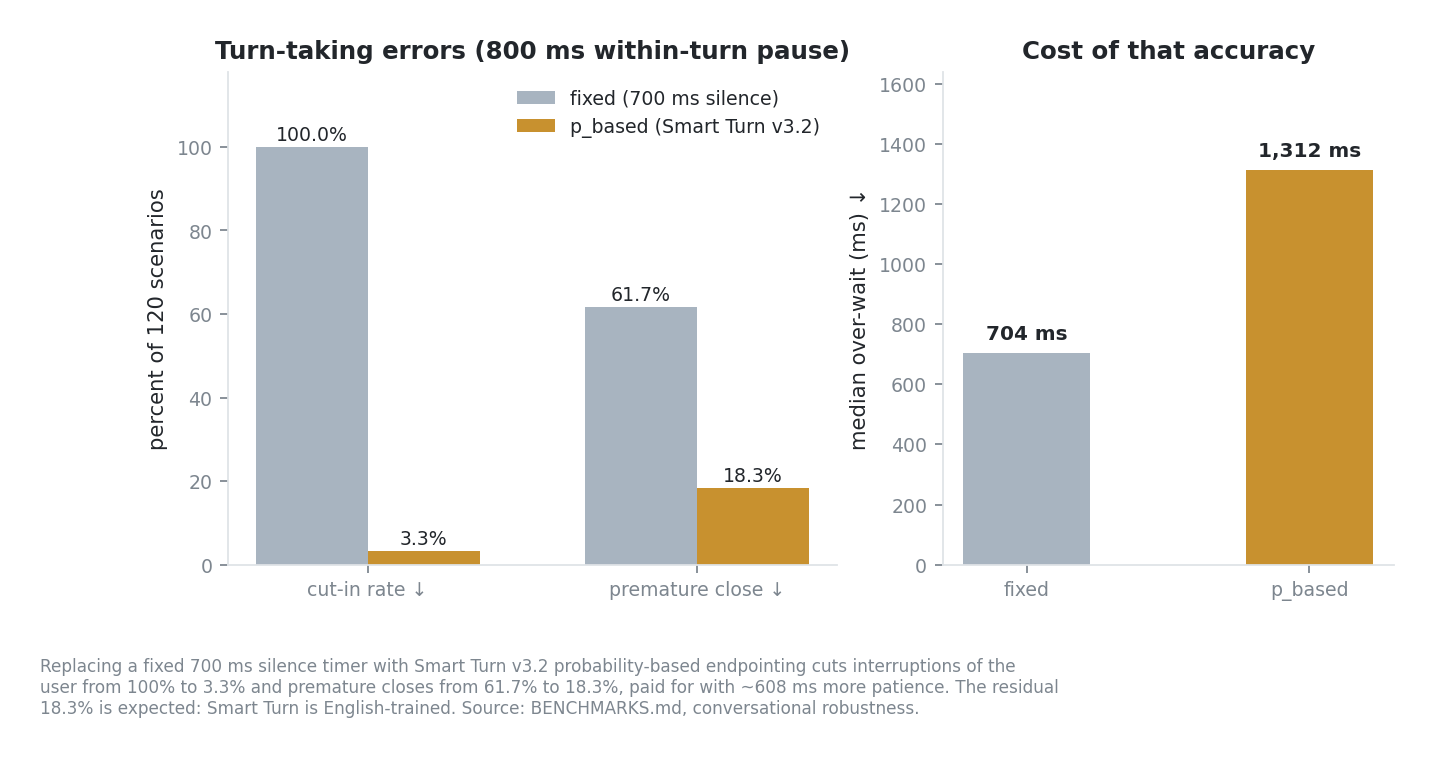
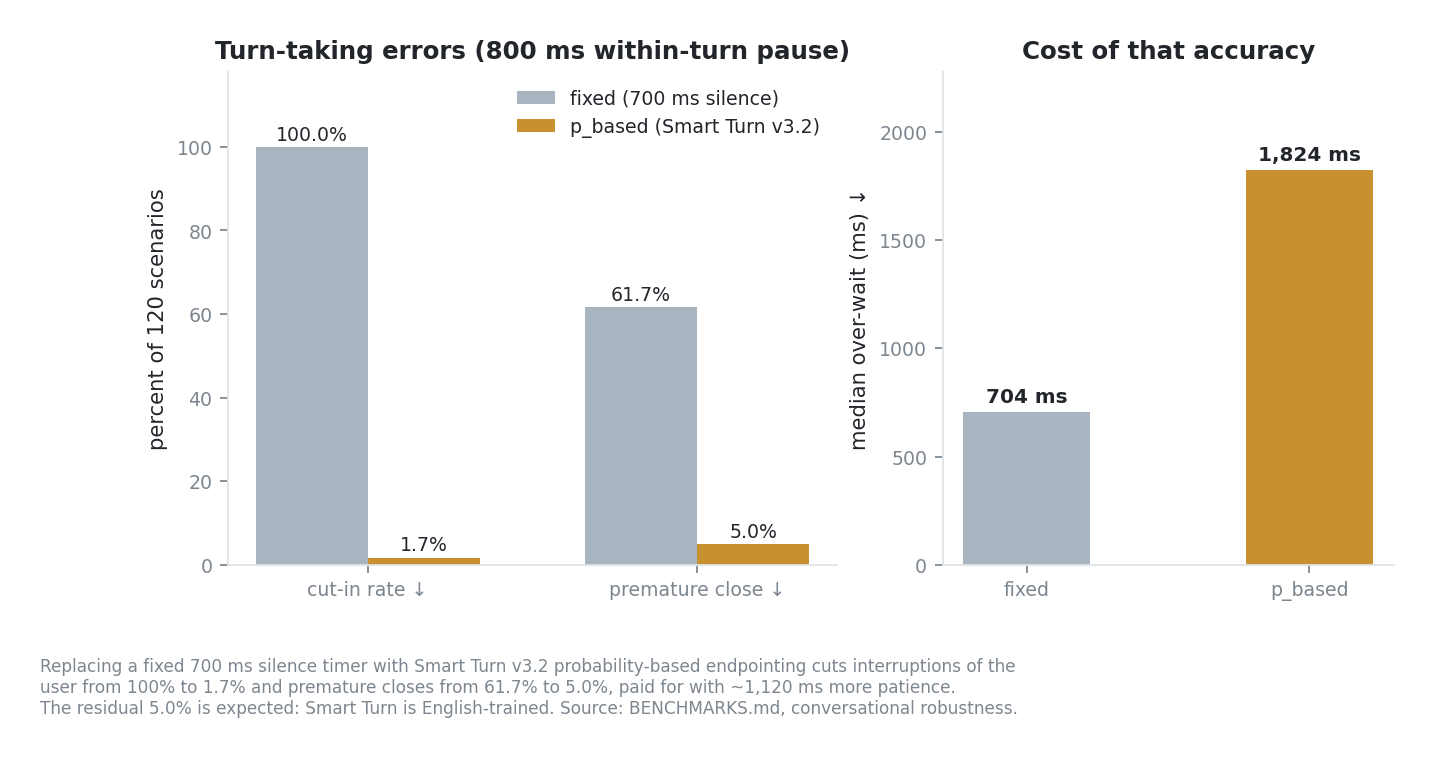
docs: correct turn-taking section after the endpoint floor retune

diff --git a/scripts/plot_benchmarks.py b/scripts/plot_benchmarks.py
@@ -332,11 +332,18 @@ def conversation_turn_taking(data: dict) -> Figure:
     right.set_title("Cost of that accuracy")
     _despine(right)
 
+    # Derived, never typed in: a hardcoded caption survived a policy retune once
+    # already and contradicted the bars drawn right above it.
+    baseline, adaptive = (policies[name] for name in names)
+    extra_wait = adaptive["median_over_wait_ms"] - baseline["median_over_wait_ms"]
     _caption(
         figure,
         "Replacing a fixed 700 ms silence timer with Smart Turn v3.2 probability-based endpointing cuts interruptions of the\n"
-        "user from 100% to 3.3% and premature closes from 61.7% to 18.3%, paid for with ~608 ms more patience. The residual\n"
-        "18.3% is expected: Smart Turn is English-trained. Source: BENCHMARKS.md, conversational robustness.",
+        f"user from {baseline['cut_in_rate']:.0%} to {adaptive['cut_in_rate']:.1%} and premature closes from "
+        f"{baseline['premature_close_rate']:.1%} to {adaptive['premature_close_rate']:.1%}, paid for with "
+        f"~{extra_wait:,.0f} ms more patience.\n"
+        f"The residual {adaptive['premature_close_rate']:.1%} is expected: Smart Turn is English-trained. "
+        "Source: BENCHMARKS.md, conversational robustness.",
     )
     return figure
 

diff --git a/BENCHMARKS.md b/BENCHMARKS.md
@@ -352,7 +352,7 @@ index — deterministic and machine-independent. AEC and VAD are injected for un
 tests, then the production WebRTC AEC3 and Silero are fed for the real runs.
 
 Barge-in gate: sustained 400 ms, Silero threshold 0.7 (production `DuplexAecSink`
-defaults). Endpoint policies: `fixed` (700 ms) versus `p_based` (floor 1,000 +
+defaults). Endpoint policies: `fixed` (700 ms) versus `p_based` (floor 1,800 +
 span·P, ceiling 3,000; Smart Turn v3.2). Vocabulary follows Full-Duplex-Bench so
 the numbers are comparable to published spoken-dialogue work.
 
@@ -381,20 +381,33 @@ stronger echo.
 *Figure 5 — Fixed-timer versus probability-based endpointing, and what the accuracy
 costs in patience.*
 
+Canonical run `985b9ce`, seed 42, endpoint floor 1,800 ms. Evidence:
+[`turn-taking-20260811.json`](docs/evidence/turn-taking-20260811.json).
+
 | Policy | Cut-in rate | Premature close | Median over-wait |
 | --- | ---: | ---: | ---: |
 | `fixed` | 100.0% | 61.7% | 704 ms |
-| **`p_based`** | **3.3%** | **18.3%** | 1,312 ms |
+| **`p_based`** | **1.7%** | **5.0%** | 1,824 ms |
 
-Adaptive endpointing drops cut-in **100% → 3.3%** and premature close
-**61.7% → 18.3%** — 30× and 3.4× — for about 608 ms more patience. That is the
+Adaptive endpointing drops cut-in **100% → 1.7%** and premature close
+**61.7% → 5.0%** — 60× and 12× — for about 1,120 ms more patience. That is the
 takeover-rate versus response-latency trade-off, measured for Vietnamese.
 
-**Two honest limits.** `p_based` still closes 18.3% of Vietnamese turns early
-because Smart Turn is English-trained; a Vietnamese turn model is the real fix. And
-the 400 ms sustained gate filters 400 ms backchannels only because it actually
-needs 416 ms (13 × 32 ms frames) — a 500 ms "vâng ạ" would leak through. A
-backchannel classifier, not a longer timer, is the fix.
+**Superseded numbers.** Until 2026-08-05 this section reported 3.3% cut-in and
+18.3% premature close at 1,312 ms over-wait. Commit `587a93a` raised
+`floor_silence_ms` from 1,000 to 1,800 ms and fixed the window handed to Smart
+Turn: `_voiced_window` stripped the trailing silence before inference, which
+removed the very cue an end-of-turn classifier is trained on. The 1,000 ms-floor
+numbers were correct for the code of the day and are kept in
+[A.2](#a2--decision-history); the endpoint constants are now stamped into the
+result file so the next tuning commit shows up as a diff rather than as drift.
+
+**One honest limit, one improved.** The 400 ms sustained gate filters 400 ms
+backchannels only because it actually needs 416 ms (13 × 32 ms frames) — a 500 ms
+"vâng ạ" would leak through, and a backchannel classifier, not a longer timer, is
+the fix. Premature close is no longer a release blocker at 5.0%, but the residual
+3/60 are still English-trained-model errors: a Vietnamese turn model remains the
+principled fix, and the 1,824 ms over-wait is the price currently paid for it.
 
 *Caveats:* latency here is a system number (sustained floor + VAD on read speech),
 not a pure front-end reaction time. The backchannel is a synthetic 400 ms FLEURS
@@ -680,7 +693,7 @@ Consolidated from every section above. Nothing here is scheduled away or softene
 | 4 | Remote tool-router generation failure telemetry path unaudited | [3.2](#32-qwen3-asr-release-qualification--decision-blocked) |
 | 5 | No microphone, speaker, or live barge-in device run | [9](#9-platform-provider-and-audio-gates) |
 | 6 | No PTY / IME matrix on iTerm2 or Terminal.app | [9](#9-platform-provider-and-audio-gates) |
-| 7 | Smart Turn is English-trained: 18.3% premature close on Vietnamese | [5.2](#52-turn-taking-120-scenarios-800-ms-within-turn-pause) |
+| 7 | Vietnamese turn-taking costs 1,824 ms median over-wait to hold premature close at 5.0% | [5.2](#52-turn-taking-120-scenarios-800-ms-within-turn-pause) |
 | 8 | Backchannels longer than ~416 ms leak through the sustained gate | [5.2](#52-turn-taking-120-scenarios-800-ms-within-turn-pause) |
 | 9 | Summary mixed Vietnamese/code/path placement recall 8% | [7](#7-working-memory-summarization) |
 | 10 | Router goal-level pass rate 1/14 on the remediation baseline | [8](#8-capability-routing) |
@@ -701,7 +714,13 @@ uv run python scripts/plot_benchmarks.py --only retrieval-pareto
 The plotted numbers live in
 [`docs/assets/benchmarks/figure_data.json`](docs/assets/benchmarks/figure_data.json),
 each entry carrying the section it was copied from, so a figure cannot silently
-drift from its source.
+drift from its source. Figure captions are derived from those values rather than
+typed, because a hand-written caption already survived a retune once and
+contradicted the bars above it.
+
+Conversation harnesses stamp the revision they ran from, whether the tree was
+dirty, and the endpoint constants in force into the result file. A later tuning
+commit then appears as a diff in the artifact instead of as a stale number here.
 
 Selected harnesses:
 
@@ -806,5 +825,6 @@ matched 0/80 on the production model.
 | Summary decision `trim_only` | 2026-07-28 | Superseded by explicit product-owner acceptance in [§7](#7-working-memory-summarization); the measurements remain valid |
 | Voice/knowledge phases P0–P5 | 2026-07-29 | Consolidated into [§6](#6-knowledge-retrieval) and [§8](#8-capability-routing) |
 | Qwen3-ASR release matrix on CPU: partial p95 11,619 ms | 2026-08-02 | Re-run on MPS ([§3.2](#32-qwen3-asr-release-qualification--decision-blocked)); the CPU failure is retained, not overwritten |
+| Turn-taking `p_based` at a 1,000 ms floor: cut-in 3.3%, premature close 18.3%, over-wait 1,312 ms | 2026-08-03 | Correct for the code of the day; `587a93a` raised the floor to 1,800 ms and stopped stripping the trailing silence before Smart Turn inference, giving the 1.7% / 5.0% / 1,824 ms in [§5.2](#52-turn-taking-120-scenarios-800-ms-within-turn-pause) |
 
 Model licenses are listed in [README.md](README.md#licenses-and-attribution).
